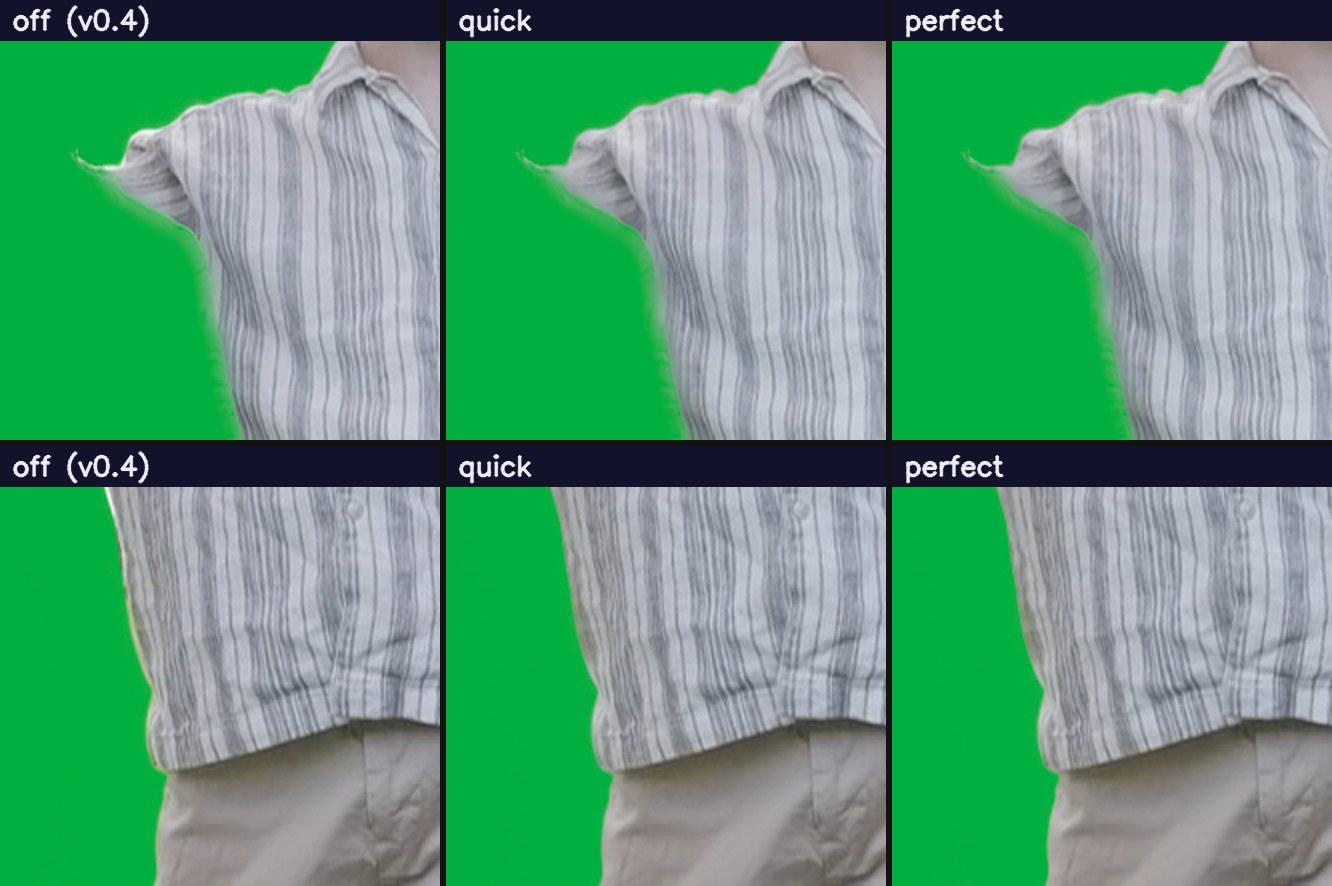
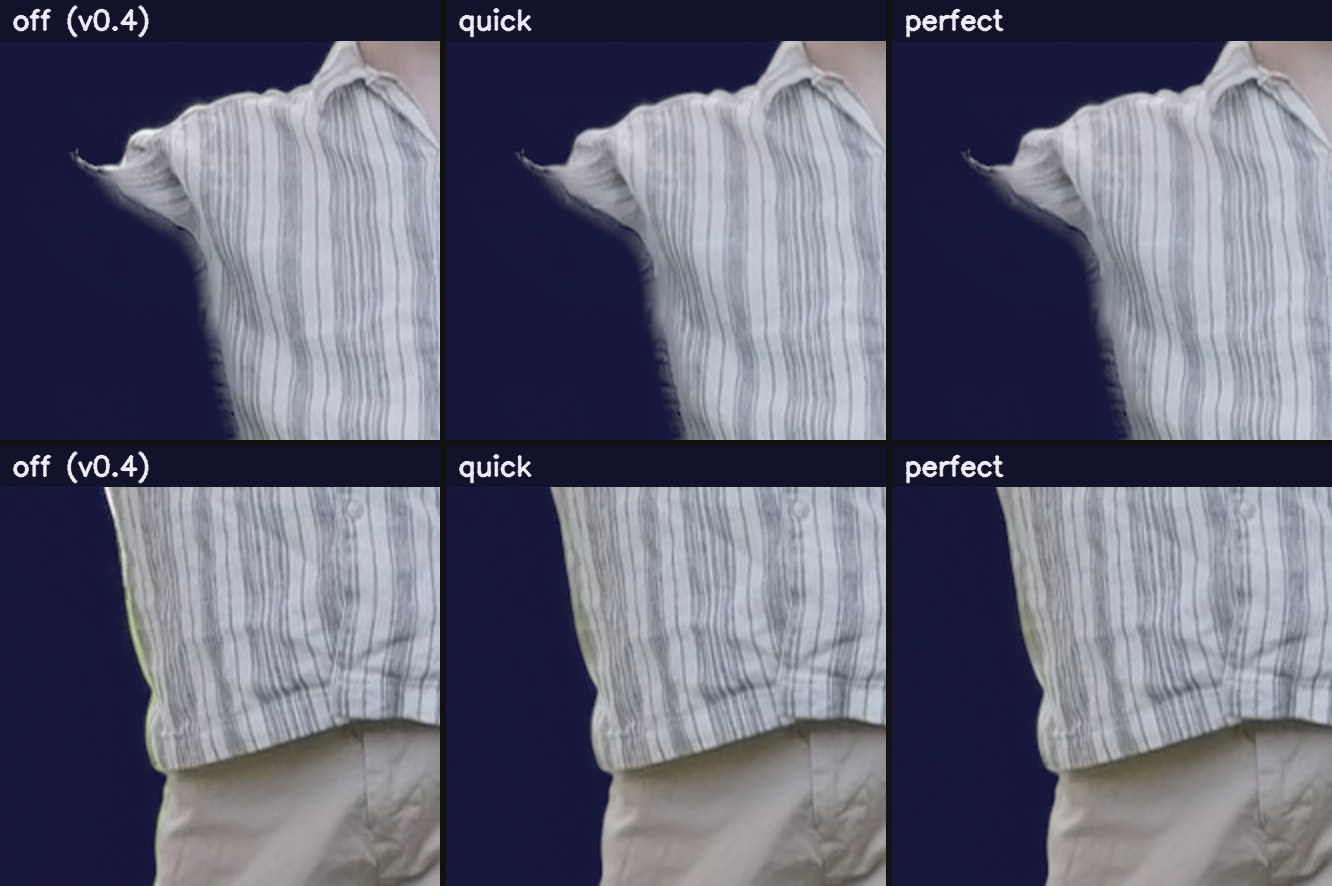
README: edge colour figure over navy, so the green grass line shows
Over green the lime line the fix removes was invisible.

diff --git a/README.md b/README.md
@@ -137,9 +137,9 @@ worse there. RAM grows with shot length (see [Hardware](#hardware)).
 <sub>UHD 4K plate, matte over navy, the same shot as above. Left of the line: the plate's own colour in her flyaways
 (the grass behind her shows through each strand). Right: v0.5.1 quick edge colour, the alpha unchanged.</sub>
 
-<p align="center"><img src="docs/images/edge_colour.jpg" width="760" alt="edge colour off, quick, perfect over green"></p>
+<p align="center"><img src="docs/images/edge_colour.jpg" width="760" alt="edge colour off, quick, perfect over navy"></p>
 
-<sub>Subject comped over green, 2x zoom. Off: the plate's own colour stays in the soft edge, so the sky behind the
+<sub>Subject comped over navy, 2x zoom. Off: the plate's own colour stays in the soft edge, so the sky behind the
 sleeve shows as a white halo and the grass as a lime line down the shirt. Quick and perfect rebuild the subject's
 colour there.</sub>
 
